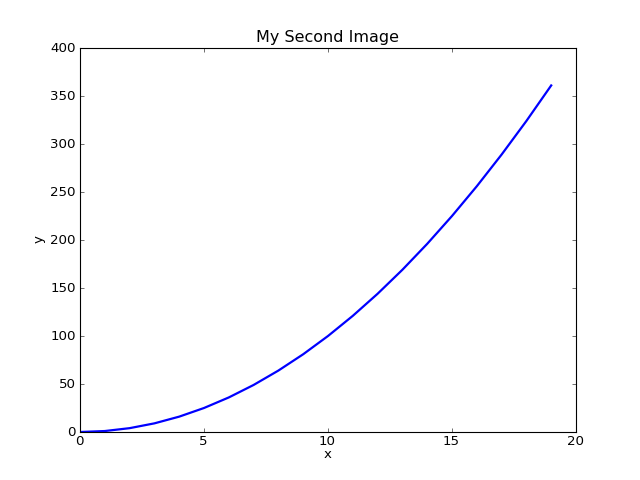
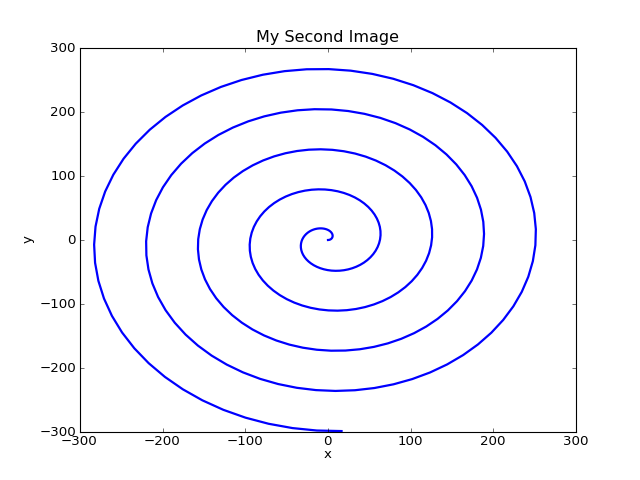
spiral example

diff --git a/README.md b/README.md
@@ -16,17 +16,16 @@ This simple library is not meant to be general but it allows me to produce the q
 hist data is an array of numbers.
 [output](https://github.com/mdipierro/canvas/blob/master/screenshots/img1.png)
 
-    >>> parabole = [(x,x*x) for x in range(0,20)]
-    >>> Canvas('My Second Image').plot(parabole).save('img2.png')
+    >>> spiral = [(x*cos(0.1*x),x*sin(0.1*x)) for x in range(0,300)]
+    >>> Canvas('My Second Image').plot(spiral).save('img2.png')
 
 plot data is an array of 2-tuples, (x,y).
 [output](https://github.com/mdipierro/canvas/blob/master/screenshots/img2.png)
 
     >>> points = [(x,x+gauss(0,1),0.5) for x in range(20)]
-    >>> Canvas('My Third Image').errorbar(points).save('img3.png')
+    >>> Canvas('My Third Image').errorbar(points).plot(points).save('img3.png')
 
-errorbar data is an array of 3-tuples, (x,y,dy).
-[output](https://github.com/mdipierro/canvas/blob/master/screenshots/img3.png)
+errorbar data is an array of 3-tuples, (x,y,dy). In the example above the plot is superimposed to errorbars. [output](https://github.com/mdipierro/canvas/blob/master/screenshots/img3.png)
 
     >>> blobs = [(gauss(0,1),gauss(0,1),0.05,0.05) for i in range(100)]
     >>> Canvas('My Fourth Image').ellipses(blobs).save('img4.png')
@@ -39,10 +38,6 @@ ellipses data is an arrat of 4-tuples, (x,y,dx,dy).
 
 imshow data is a square  2D array of numbers.
 [output](https://github.com/mdipierro/canvas/blob/master/screenshots/img5.png)
-
-You overlap plots as follows:
-
-    >>> Canvas(...).hist(...).hist(...).plot(...).save(...)
 
 The names of the methods of the canvas objects are the same as the methods of the corresponding matplotlib axis object.
 
